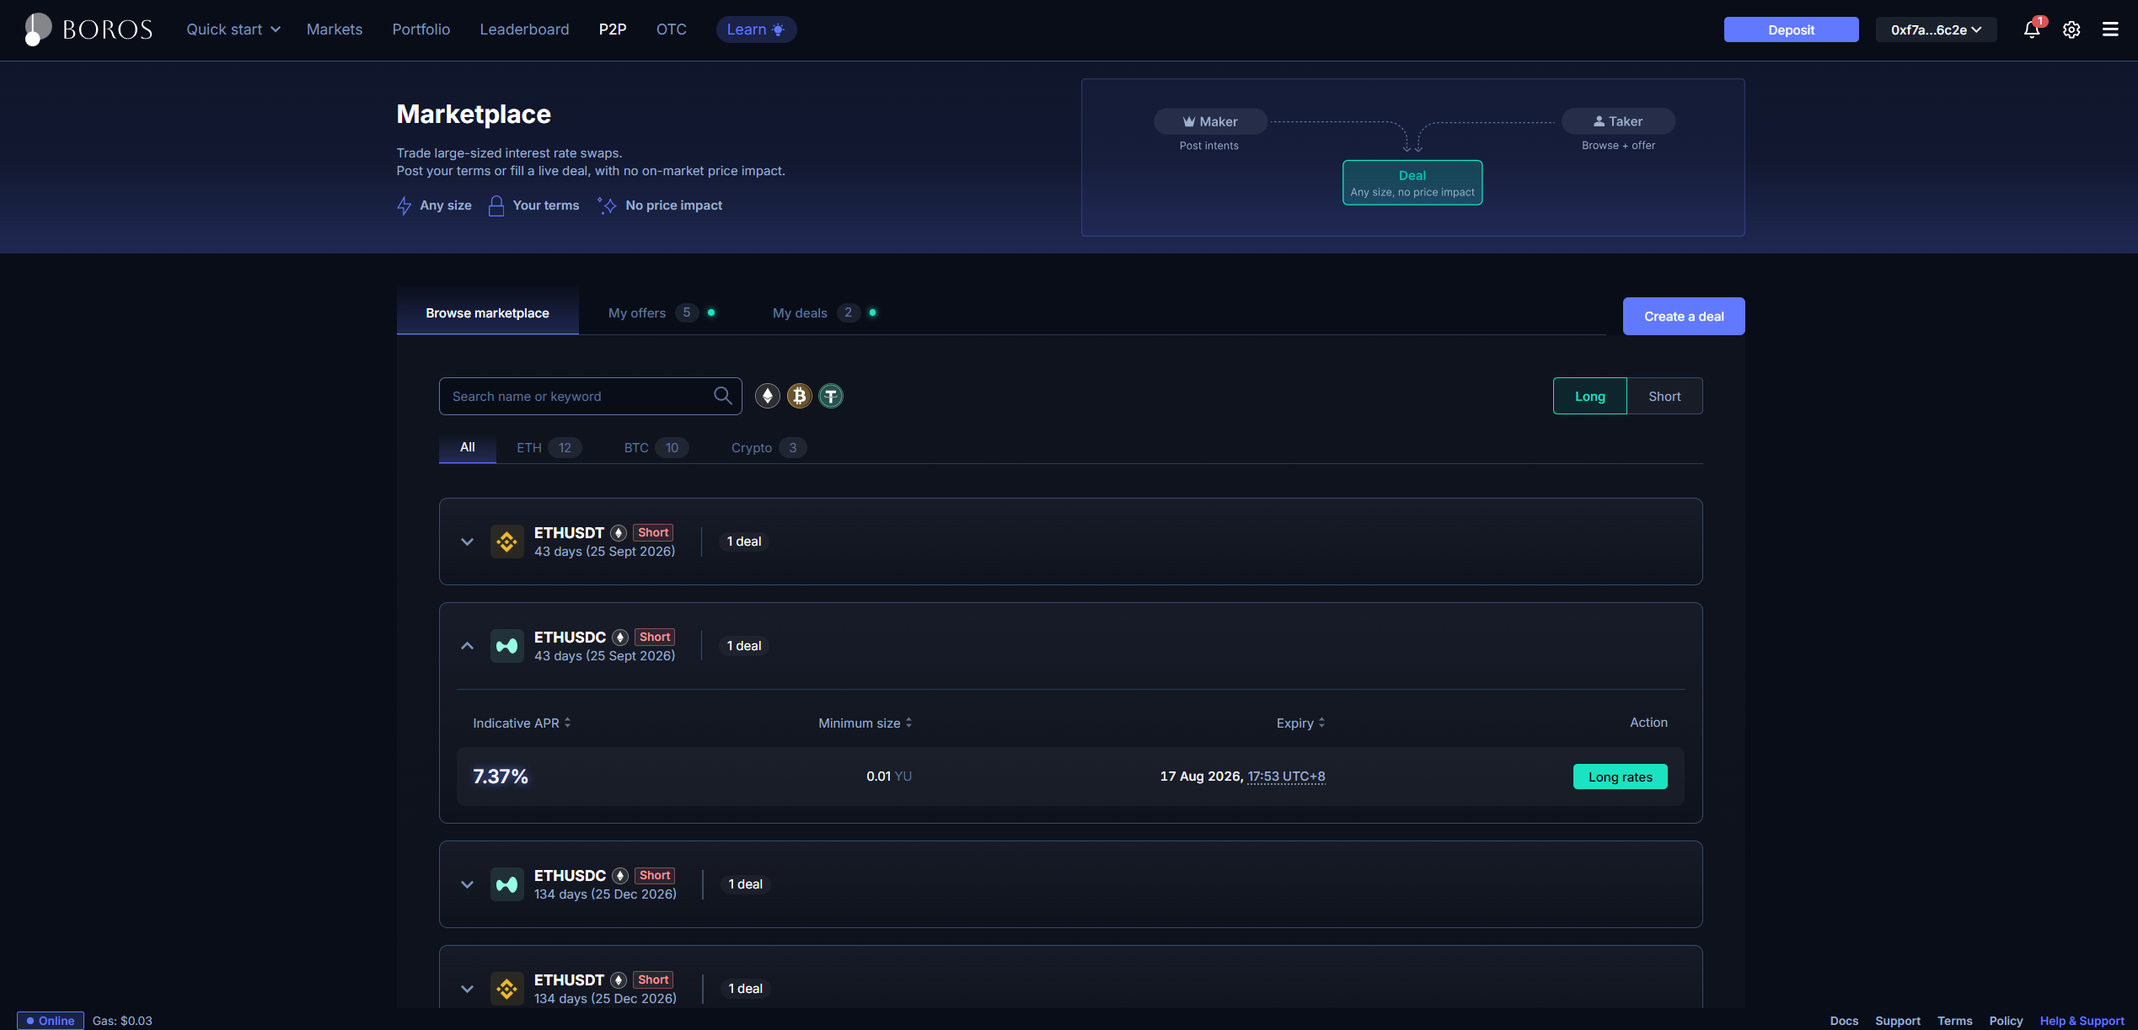
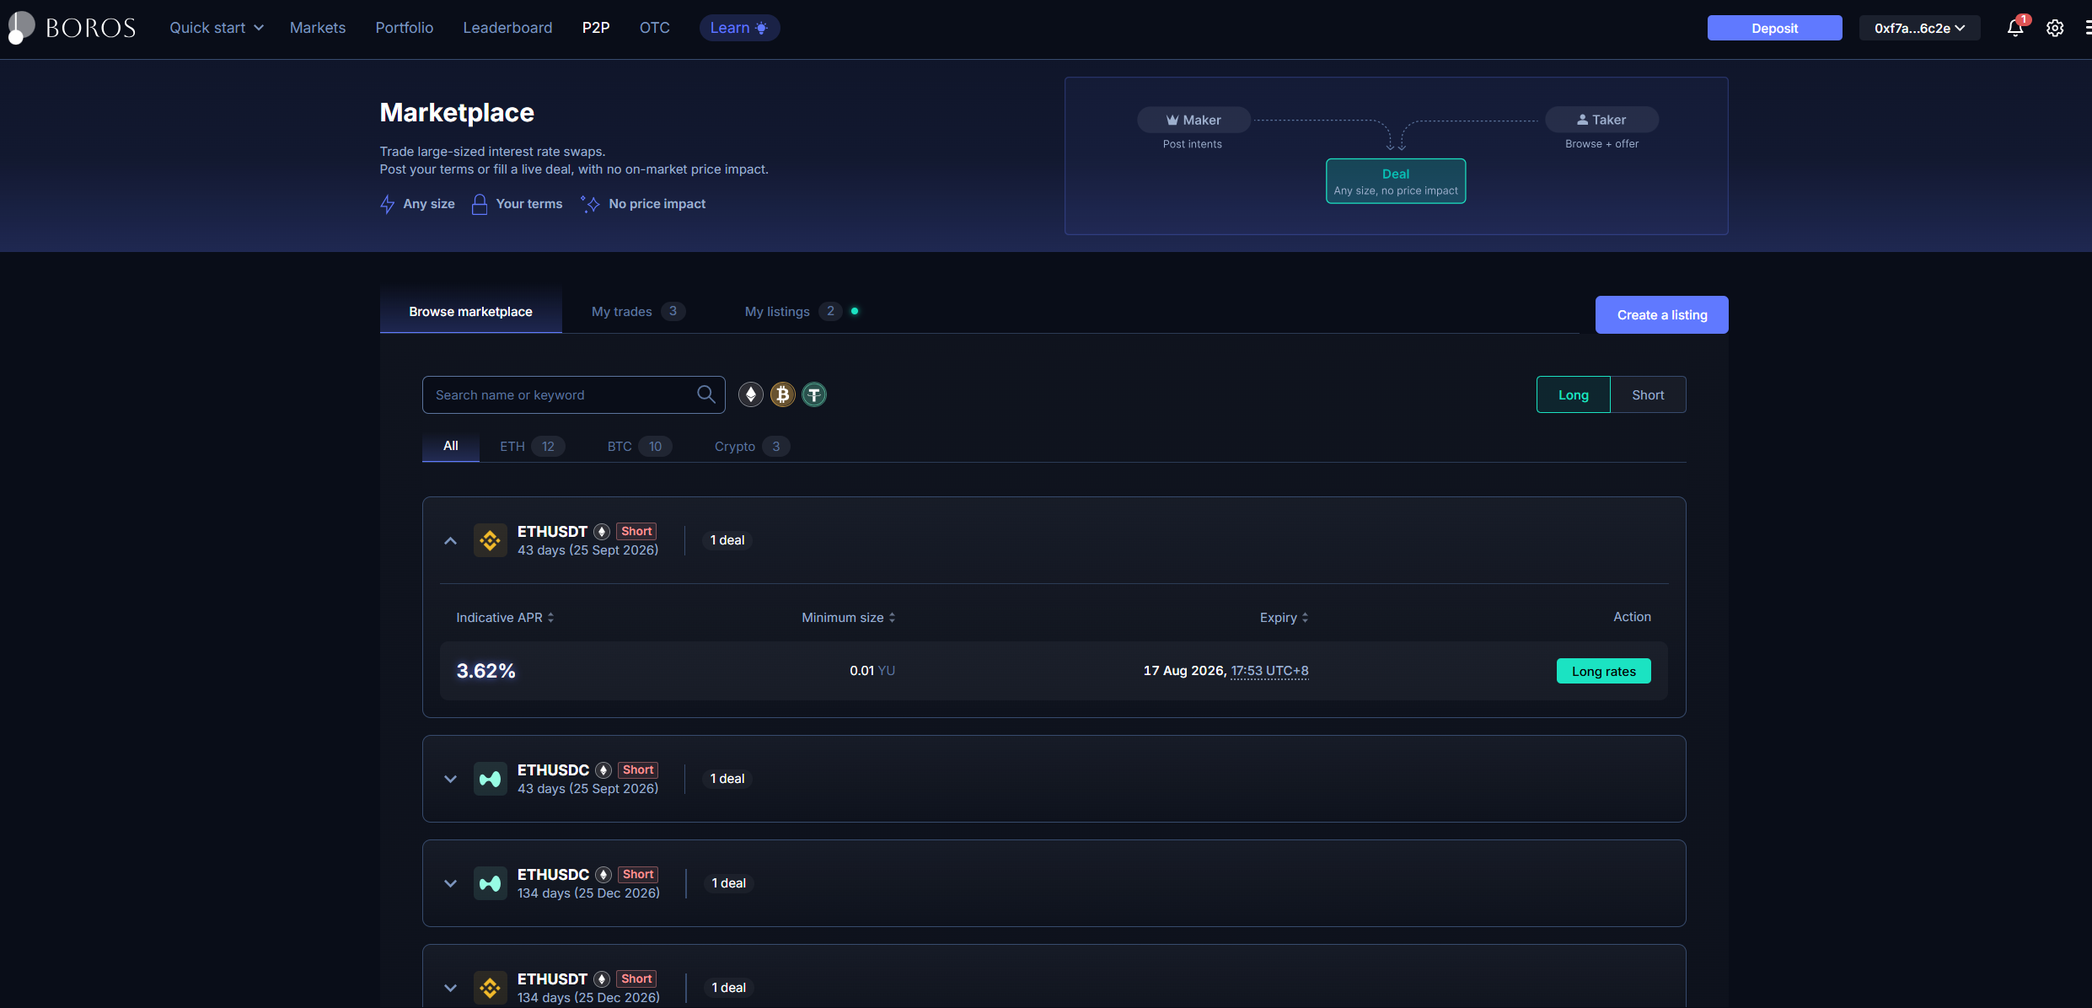
P2p marketplace (#277)
* added p2p en docs

* llm stuff

* adjust copy

* remove whitelist req

* adjust copy

* updated copy based on feedback

diff --git a/docs/boros-docs/boros-systems/p2p-marketplace.md b/docs/boros-docs/boros-systems/p2p-marketplace.md
@@ -1,6 +1,6 @@
 # P2P Marketplace
 
-The P2P Marketplace lets you negotiate large interest rate swap trades directly with a counterparty instead of trading through the order book.
+The P2P Marketplace lets you negotiate sized swaps directly with a counterparty instead of trading through the order book.
 
 Because the trade is agreed off-book and executed at a fixed time, you get:
 
@@ -8,48 +8,51 @@ Because the trade is agreed off-book and executed at a fixed time, you get:
 - **Your terms** — you negotiate the rate, size, and execution time
 - **No price impact** — the trade does not walk the book
 
-Access is **whitelisted**. If you want to participate, reach out to the team.
-
 ![Marketplace](/boros-docs/imgs/p2p-marketplace/browse-marketplace.png "Marketplace")
 
 ## Two Roles
 
 | Role | What they do |
 | --- | --- |
-| **Maker** | Lists a deal — a public intent to trade. |
-| **Taker** | Browses listings and offers a firm trade against one. |
+| **Maker** | Posts a listing, a public intent to trade. |
+| **Taker** | Browses listings and places a firm offer against one. |
 
-You can be either. The **Maker** posts a rough intent; the **Taker** proposes the actual terms.
+You can be either. The **Maker** posts an intent; the **Taker** proposes the actual terms.
 
 ## The Flow at a Glance
 
-1. A Maker **lists a deal** (market, direction, indicative APR, minimum size, expiry).
-2. A Taker **makes an offer** on it — with a concrete size, APR, and execution time — and locks a bond.
+1. A Maker **posts a listing** (market, direction, indicative APR, minimum size, expiry).
+2. A Taker **places an offer** on it, with a concrete size, APR, and execution time.
 3. The Maker **accepts, counters, or rejects**.
-4. If countered, the roles flip and negotiation continues until someone accepts or rejects.
+4. If countered, the ball is simply in the other party's court, they can now accept, counter back, or reject. This continues until someone accepts or rejects.
 5. On acceptance, **both sides are bound**. The trade executes automatically at the agreed time.
-6. Once it executes, both bonds are released.
 
-## Listing a Deal
+Whenever you place an offer or counter, a small **bond** is locked as a good-faith deposit. It's returned once the offer resolves, whether that's execution, rejection, cancellation, or expiry. See [Bonds and Penalties](#bonds-and-penalties).
 
-Click **Create a deal** and set:
+:::note
+Countering does **not** swap your Maker or Taker role. The Maker stays the Maker for the whole negotiation, so the side paying the fee never changes. Countering just means it's now the other party's turn to respond.
+:::
+
+## Post a Listing
+
+Click **Create a listing** and set:
 
 | Field | Meaning |
 | --- | --- |
 | **Market** | Which market you want to trade. |
 | **Direction** | Long or short rates. |
-| **Indicative APR** | The APR you'd like to trade around. **Non-binding** — it's a signal, not a price. Takers can offer at any APR. |
+| **Indicative APR** | The APR you'd like to trade around. **Non-binding**. It's a signal, not a price. Takers can offer at any APR. |
 | **Minimum size** | The smallest offer you're willing to entertain. |
 | **Listing expiry** | How long the listing stays visible. |
 | **Margin account** | Cross or isolated. If you already hold a position in that market at acceptance, that account is used instead. |
 
-![Create new deal](/boros-docs/imgs/p2p-marketplace/list-new-deal.png "Create new deal")
+![Create new listing](/boros-docs/imgs/p2p-marketplace/list-new-deal.png "Create new listing")
 
-Listing a deal costs you nothing and commits you to nothing. You can cancel an unfilled listing at any time with no penalty.
+Posting a listing costs you nothing and commits you to nothing. You can cancel an unfilled listing at any time with no penalty.
 
-## Making an Offer
+## Placing an Offer
 
-Browse the marketplace, pick a deal, and click through to make an offer. Unlike the listing, an offer is a **firm quote**:
+Browse the marketplace, pick a listing, and click through to place an offer. Unlike the listing, an offer is a **firm quote**:
 
 | Field | Meaning |
 | --- | --- |
@@ -58,29 +61,29 @@ Browse the marketplace, pick a deal, and click through to make an offer. Unlike 
 | **Execution time** | The exact time the trade will fire on-chain. Usually set just before a funding settlement. |
 | **Note to maker** | Optional message to accompany your offer. |
 
-![Make an offer](/boros-docs/imgs/p2p-marketplace/make-offer.png "Make an offer")
+![Place an offer](/boros-docs/imgs/p2p-marketplace/make-offer.png "Place an offer")
 
 When you submit, a **bond** is locked from your margin account. The panel shows the bond amount before you confirm.
 
-You can **cancel a pending offer at any time before it's accepted**, with no penalty — your bond is returned in full.
+You can **cancel a pending offer at any time before it's accepted**, with no penalty. Your bond is returned in full.
 
 ## Responding to an Offer
 
-When someone offers on your deal, you have three choices:
+When someone places an offer on your listing, you have three choices:
 
 ![Respond to an offer](/boros-docs/imgs/p2p-marketplace/respond-offer.png "Respond to an offer")
 
 | Action | What happens |
 | --- | --- |
 | **Accept** | The trade is binding. Terms are locked and it will execute at the agreed time. |
-| **Counter** | You propose your own terms. Roles flip — now it's up to them to accept, counter, or reject. |
+| **Counter** | You propose your own terms. It's now up to them to accept, counter back, or reject. |
 | **Reject** | The offer dies and their bond is released. |
 
-Doing nothing is also an option — offers expire on their own if not accepted before the execution time.
+Doing nothing is also an option. Offers expire on their own if not accepted before the execution time.
 
 ### Countering
 
-A counter is simply a **fresh offer** on your own terms. You can change any of the three negotiable terms — **APR, size, and execution time**.
+A counter is simply a **fresh offer** on your own terms. You can change any of the three negotiable terms: **APR, size, and execution time**.
 
 ![Counter an offer](/boros-docs/imgs/p2p-marketplace/counter-offer.png "Counter an offer")
 
@@ -89,20 +92,20 @@ Countering locks a full bond on your new offer, and the bond on the offer you re
 Negotiation can go back and forth as many rounds as you like. It ends when one side accepts (binding) or rejects (dead).
 
 :::info
-Acceptance is **all-or-nothing on the stated size**. There's no partial fill — if you only want part of the size, counter at the smaller size.
+Acceptance is **all-or-nothing on the stated size**. There's no partial fill, if you only want part of the size, counter at the smaller size.
 :::
 
 ## After Acceptance
 
-Once accepted, the three terms — **size, APR, and execution time** — are locked in stone. Neither side can back out.
+Once accepted, the three terms, **size, APR, and execution time**, are locked in stone. Neither side can back out.
 
 Your job between acceptance and execution is simple: **make sure your margin account holds enough collateral**.
 
 - The trade executes **automatically** at the agreed time. You don't need to be online.
 - If both sides are funded and ready sooner, either side can hit **Ready to execute**. When both sides signal ready, the trade fires early.
-- Margin is **shared across your account**, not locked per offer. Top up once, in aggregate — the **My offers** tab shows total required vs. available margin per account.
+- Margin is **shared across your account**, not locked per offer. Top up once, in aggregate, the **My Trades** tab shows total required vs. available margin per account.
 
-![My offers](/boros-docs/imgs/p2p-marketplace/offer-tab.png "My offers")
+![My Trades](/boros-docs/imgs/p2p-marketplace/offers-tab.png "My Trades")
 
 :::warning
 The required margin shown is an **estimate**. The exact amount depends on the mark APR at execution time. Keep a buffer.
@@ -110,14 +113,14 @@ The required margin shown is an **estimate**. The exact amount depends on the ma
 
 ## Bonds and Penalties
 
-A bond is collateral locked to keep negotiation honest. It's **reserved, not transferred** — and it's much smaller than the full margin for the position.
+A bond is collateral locked to keep negotiation honest. It's **reserved, not transferred** and it's much smaller than the full margin for the position.
 
 **Your bond is released** when:
 
 - Your offer is rejected, cancelled, countered, or expires
 - The trade executes successfully
 
-**Your bond is slashed** when you **accept and then bail** — i.e. you're bound to a trade but don't have enough margin to fund it at execution time. The slashed bond is paid to your counterparty as compensation.
+**Your bond is slashed** when you **accept and then bail**, i.e. you're bound to a trade but don't have enough margin to fund it at execution time. The slashed bond is paid to your counterparty as compensation.
 
 That's the only penalised act. There is **no penalty** for:
 
@@ -132,7 +135,7 @@ That's the only penalised act. There is **no penalty** for:
 
 If an offer is due to execute soon and your margin doesn't cover it, a **warning indicator** appears on that offer row and on the account. You'll also get a Telegram notification if you have notifications enabled. Top up before execution time to avoid losing your bond.
 
-## Offer Statuses
+## Offer/Trade Statuses
 
 | Status | Meaning |
 | --- | --- |
@@ -143,20 +146,20 @@ If an offer is due to execute soon and your margin doesn't cover it, a **warning
 | **Rejected** | Turned down by the other side. Bond released. |
 | **Cancelled** | Withdrawn before acceptance. Bond released. |
 | **Expired** | Not accepted in time. Bond released. |
-| **Failed** | Accepted but did not execute — usually one side was underfunded. The bond of the party at fault is forfeited to the other. |
+| **Failed** | Accepted but did not execute, usually one side was underfunded. The bond of the party at fault is forfeited to the other. |
 
-Active offers live under **My offers**; completed ones move to the **Inactive** tab.
+Your listings live under **My Listings**, and the offers and trades you're party to live under **My Trades**. In both tabs, active records show by default; completed ones move to the **Inactive** tab.
 
 ## Fees
 
-P2P trades pay the **standard taker fee (5 bps)**. The contract only allows one side to pay, so currently the **deal initiator (maker) pays the fee**.
+P2P trades pay the **standard taker fee (5 bps)**. The contract only allows one side to pay, so currently the **Maker** (the side that posted the listing) pays the fee.
 
 
 ## Things to Know
 
 - **Execution time matters.** It's usually set just before a funding settlement, so pick it deliberately.
 - **You can hedge at acceptance.** Because acceptance is binding and bail is compensated, it's safe to open your hedge as soon as a trade is accepted.
-- **Offers can't be edited.** To change terms, cancel and resubmit — or counter.
+- **Offers can't be edited.** To change terms, cancel and resubmit or counter.
 - **YU can't be used as margin.** Post fresh collateral for P2P trades.
 - **Large trades may need risk review.** Most accepts are auto-approved, but trades that trip volume or size caps go to manual review, shown in-app as *Pending Approval*.
-- **Cancelling a listing ≠ cancelling accepted deals.** Already-accepted offers still execute.
+- **Cancelling a listing ≠ cancelling accepted offers.** Already-accepted offers still execute.

diff --git a/i18n/cn/docusaurus-plugin-content-docs-boros-docs/current/boros-systems/p2p-marketplace.md b/i18n/cn/docusaurus-plugin-content-docs-boros-docs/current/boros-systems/p2p-marketplace.md
@@ -1,0 +1,168 @@
+---
+pagination_label: "P2P 市场"
+title: "P2P 市场"
+---
+
+# P2P 市场
+
+P2P 市场让你直接与交易对手协商约定规模的利率互换交易，而无需通过订单簿成交。
+
+由于交易在场外达成并在固定时间执行，你可以获得：
+
+- **任意规模** — 不受订单簿深度限制
+- **你的条款** — 利率、规模和执行时间均由你协商
+- **无价格冲击** — 交易不会扫穿订单簿
+
+![Marketplace](/boros-docs/imgs/p2p-marketplace/browse-marketplace.png "Marketplace")
+
+## 两种角色
+
+| 角色 | 职责 |
+| --- | --- |
+| **Maker（挂单方）** | 发布挂单，即公开的交易意向。 |
+| **Taker（吃单方）** | 浏览挂单，并针对某个挂单提交实盘报价。 |
+
+两种角色你都可以担任。**Maker** 发布交易意向；**Taker** 提出具体条款。
+
+## 流程概览
+
+1. Maker **发布挂单**（市场、方向、指示性 APR、最小规模、有效期）。
+2. Taker 针对该挂单**提交报价**，包含具体的规模、APR 和执行时间。
+3. Maker **接受、还价或拒绝**。
+4. 若为还价，则相当于把球传回给对方，对方可以接受、再次还价或拒绝。如此往复，直到一方接受或拒绝为止。
+5. 一旦接受，**双方即受约束**。交易将在约定时间自动执行。
+
+每当你提交报价或还价时，都会锁定一笔小额 **bond（保证金债券）**作为诚信押金。无论报价最终是执行、被拒绝、被取消还是过期，该 bond 都会在报价了结后退回。详见 [Bond 与惩罚](#bonds-and-penalties)。
+
+:::note
+还价**不会**改变你的 Maker 或 Taker 角色。在整个协商过程中，Maker 始终是 Maker，因此支付费用的一方也不会改变。还价仅仅意味着轮到对方回应了。
+:::
+
+## 发布挂单
+
+点击 **Create a listing**，并设置：
+
+| 字段 | 含义 |
+| --- | --- |
+| **市场** | 你想交易的市场。 |
+| **方向** | 做多或做空利率。 |
+| **指示性 APR** | 你希望围绕成交的 APR。**不具约束力**，它只是一个信号，而非价格。Taker 可以按任意 APR 报价。 |
+| **最小规模** | 你愿意考虑的最小报价规模。 |
+| **挂单有效期** | 挂单保持可见的时长。 |
+| **保证金账户** | 全仓或逐仓。若在接受时你已在该市场持有仓位，则使用该仓位所在账户。 |
+
+![Create new listing](/boros-docs/imgs/p2p-marketplace/list-new-deal.png "Create new listing")
+
+发布挂单不产生任何成本，也不构成任何承诺。你可以随时取消未成交的挂单，且无任何惩罚。
+
+## 提交报价
+
+浏览市场，选择一个挂单，点击进入并提交报价。与挂单不同，报价是一个**实盘报价**：
+
+| 字段 | 含义 |
+| --- | --- |
+| **报价 APR** | 你实际希望成交的利率。默认为指示性 APR，但你可以报任意价格。 |
+| **规模** | 你希望交易的 YU 数量。 |
+| **执行时间** | 交易在链上触发的确切时间。通常设置在资金费率结算之前。 |
+| **给 Maker 的留言** | 可选，随报价一同发送的消息。 |
+
+![Place an offer](/boros-docs/imgs/p2p-marketplace/make-offer.png "Place an offer")
+
+提交时，系统会从你的保证金账户锁定一笔 **bond**。确认前，面板会显示 bond 金额。
+
+在报价被接受之前，你**可以随时取消待处理的报价**，且无任何惩罚，bond 将全额退回。
+
+## 回应报价
+
+当有人对你的挂单提交报价时，你有三种选择：
+
+![Respond to an offer](/boros-docs/imgs/p2p-marketplace/respond-offer.png "Respond to an offer")
+
+| 操作 | 结果 |
+| --- | --- |
+| **接受（Accept）** | 交易即具约束力。条款被锁定，并将在约定时间执行。 |
+| **还价（Counter）** | 你提出自己的条款。接下来由对方决定接受、再次还价或拒绝。 |
+| **拒绝（Reject）** | 该报价作废，对方的 bond 被释放。 |
+
+不作回应也是一种选择。若在执行时间前未被接受，报价会自动过期。
+
+### 还价
+
+还价本质上就是按你自己的条款提出的一个**全新报价**。你可以修改三项可协商条款中的任意一项：**APR、规模和执行时间**。
+
+![Counter an offer](/boros-docs/imgs/p2p-marketplace/counter-offer.png "Counter an offer")
+
+还价会为你的新报价锁定一笔完整的 bond，而被替代的那笔报价的 bond 会退回给对方。
+
+协商可以来回进行任意多轮，直到一方接受（具约束力）或拒绝（作废）为止。
+
+:::info
+接受是**针对报价规模的全有或全无**。不存在部分成交，如果你只想要其中一部分规模，请按较小规模还价。
+:::
+
+## 接受之后
+
+一旦接受，**规模、APR 和执行时间**这三项条款即被彻底锁定。双方均无法反悔。
+
+从接受到执行期间，你要做的很简单：**确保你的保证金账户有足够的抵押品**。
+
+- 交易将在约定时间**自动执行**。你无需在线。
+- 若双方都已备足资金并准备就绪，任意一方均可点击 **Ready to execute**。当双方都发出就绪信号时，交易会提前执行。
+- 保证金是**账户层面共享的**，并非按报价逐笔锁定。你只需整体补充一次，**My Trades** 标签页会按账户显示所需保证金总额与可用保证金。
+
+![My Trades](/boros-docs/imgs/p2p-marketplace/offers-tab.png "My Trades")
+
+:::warning
+显示的所需保证金是**估算值**。确切金额取决于执行时的标记 APR。请预留缓冲。
+:::
+
+## Bond 与惩罚 {#bonds-and-penalties}
+
+Bond 是为保证协商诚信而锁定的抵押品。它是**冻结而非转移**的，且远小于该仓位所需的完整保证金。
+
+以下情况**你的 bond 会被释放**：
+
+- 你的报价被拒绝、取消、还价或过期
+- 交易成功执行
+
+以下情况**你的 bond 会被罚没**：你**先接受后违约**，即你已受交易约束，却在执行时没有足够保证金来履约。被罚没的 bond 将作为补偿支付给你的交易对手。
+
+这是唯一会受到惩罚的行为。以下情况**不会有任何惩罚**：
+
+- 让你的挂单过期
+- 取消挂单中未成交的部分
+- 拒绝或忽略报价
+- 在报价被接受前取消自己的报价
+- 让自己的报价在被接受前过期
+
+### 注意保证金预警
+
+若某笔报价即将执行而你的保证金不足，该报价行及对应账户上会出现**预警提示**。如果你已开启通知，还会收到 Telegram 提醒。请在执行时间前补足保证金，以免损失 bond。
+
+## 报价／交易状态
+
+| 状态 | 含义 |
+| --- | --- |
+| **Pending（待处理）** | 有效报价，尚未被处理。可以取消。 |
+| **Countered（已还价）** | 对方提出了不同条款。请回应，或任其过期。 |
+| **Accepted（已接受）** | 具约束力。执行时间已锁定。请确保保证金充足。 |
+| **Executed（已执行）** | 仓位已在链上开立。Bond 已释放。 |
+| **Rejected（已拒绝）** | 被对方拒绝。Bond 已释放。 |
+| **Cancelled（已取消）** | 在被接受前撤回。Bond 已释放。 |
+| **Expired（已过期）** | 未在时限内被接受。Bond 已释放。 |
+| **Failed（已失败）** | 已接受但未能执行，通常是因为一方保证金不足。违约方的 bond 将被罚没并支付给另一方。 |
+
+你发布的挂单位于 **My Listings**，你参与的报价与交易位于 **My Trades**。这两个标签页默认显示活跃记录；已完成的记录会移至 **Inactive** 标签页。
+
+## 费用
+
+P2P 交易支付**标准的 taker 费率（5 bps）**。合约仅允许单方支付，因此目前由 **Maker**（发布挂单的一方）承担费用。
+
+## 须知事项
+
+- **执行时间很重要。** 它通常设置在资金费率结算之前，请审慎选择。
+- **接受后即可对冲。** 由于接受具有约束力且违约方需作出补偿，交易一经接受，你就可以放心地建立对冲。
+- **报价无法修改。** 若要更改条款，请取消后重新提交，或使用还价。
+- **YU 不能用作保证金。** 请为 P2P 交易存入新的抵押品。
+- **大额交易可能需要风控审核。** 大多数接受操作会自动通过，但触发成交量或规模上限的交易将转入人工审核，应用内显示为 *Pending Approval*。
+- **取消挂单 ≠ 取消已接受的交易。** 已被接受的报价仍会照常执行。
